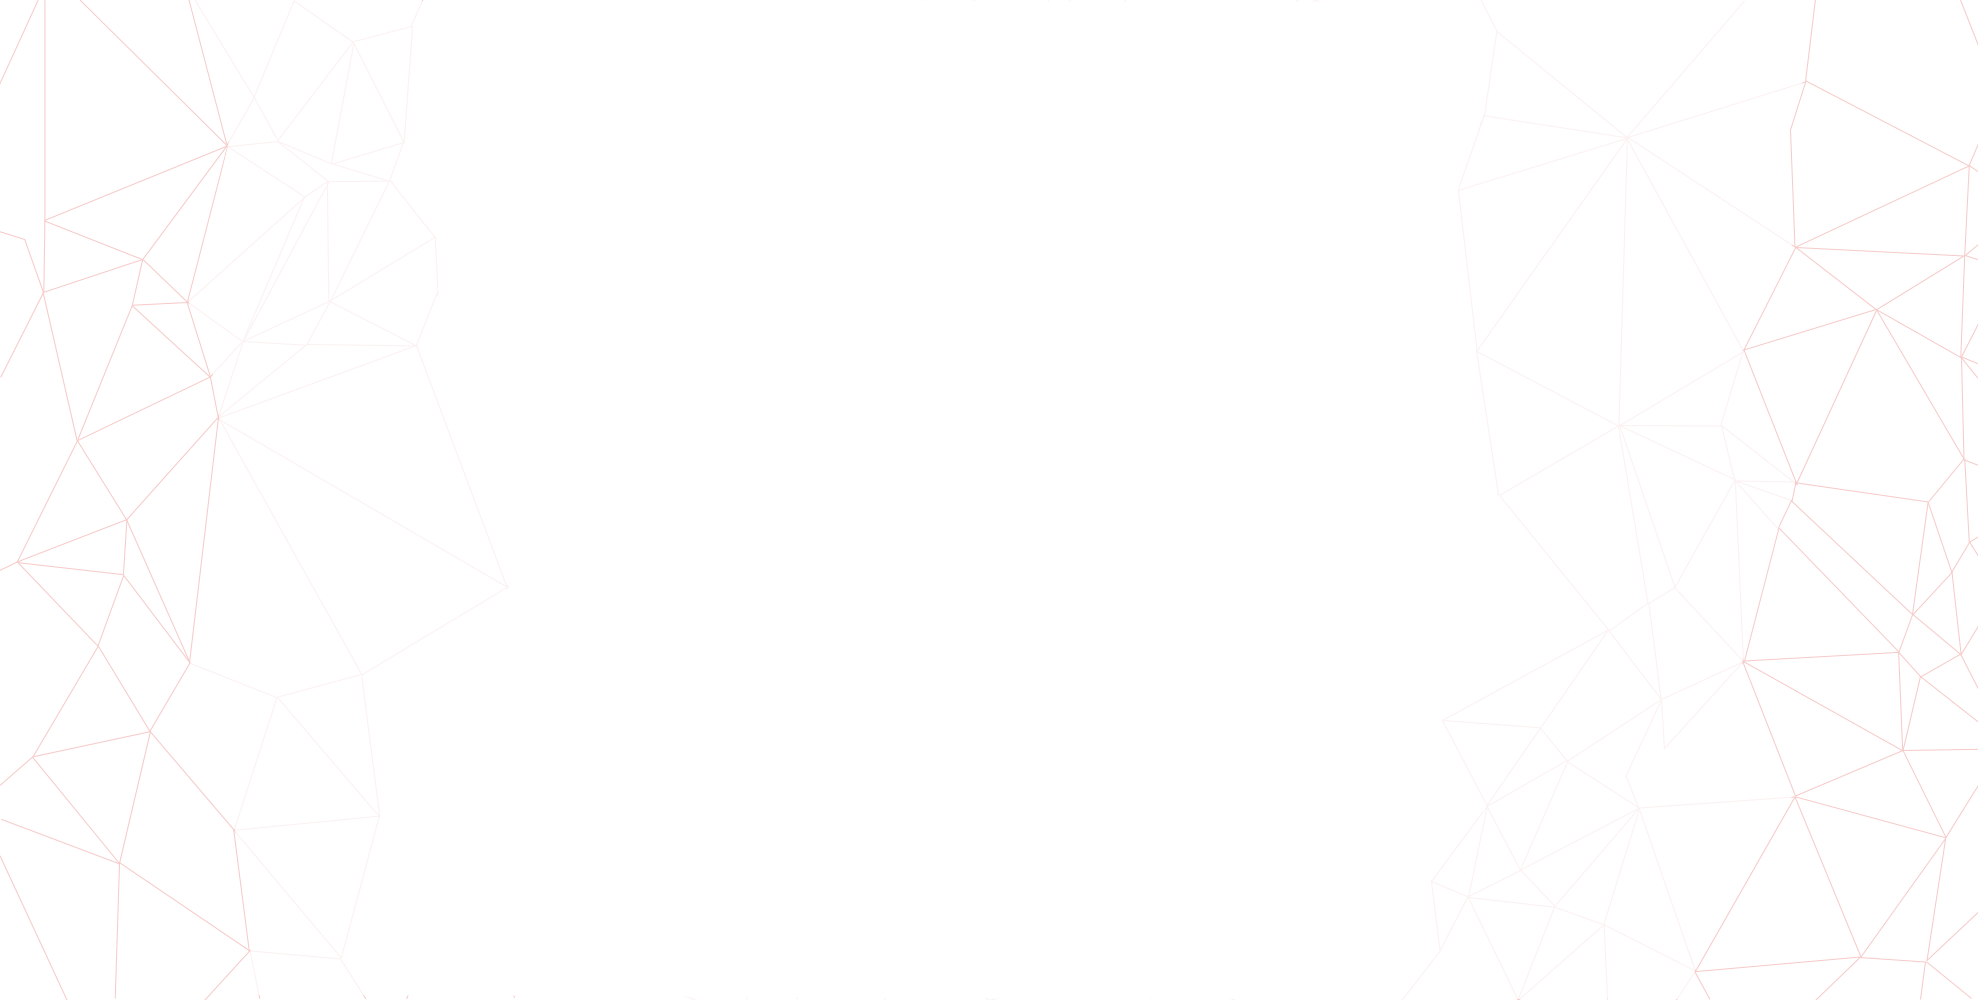
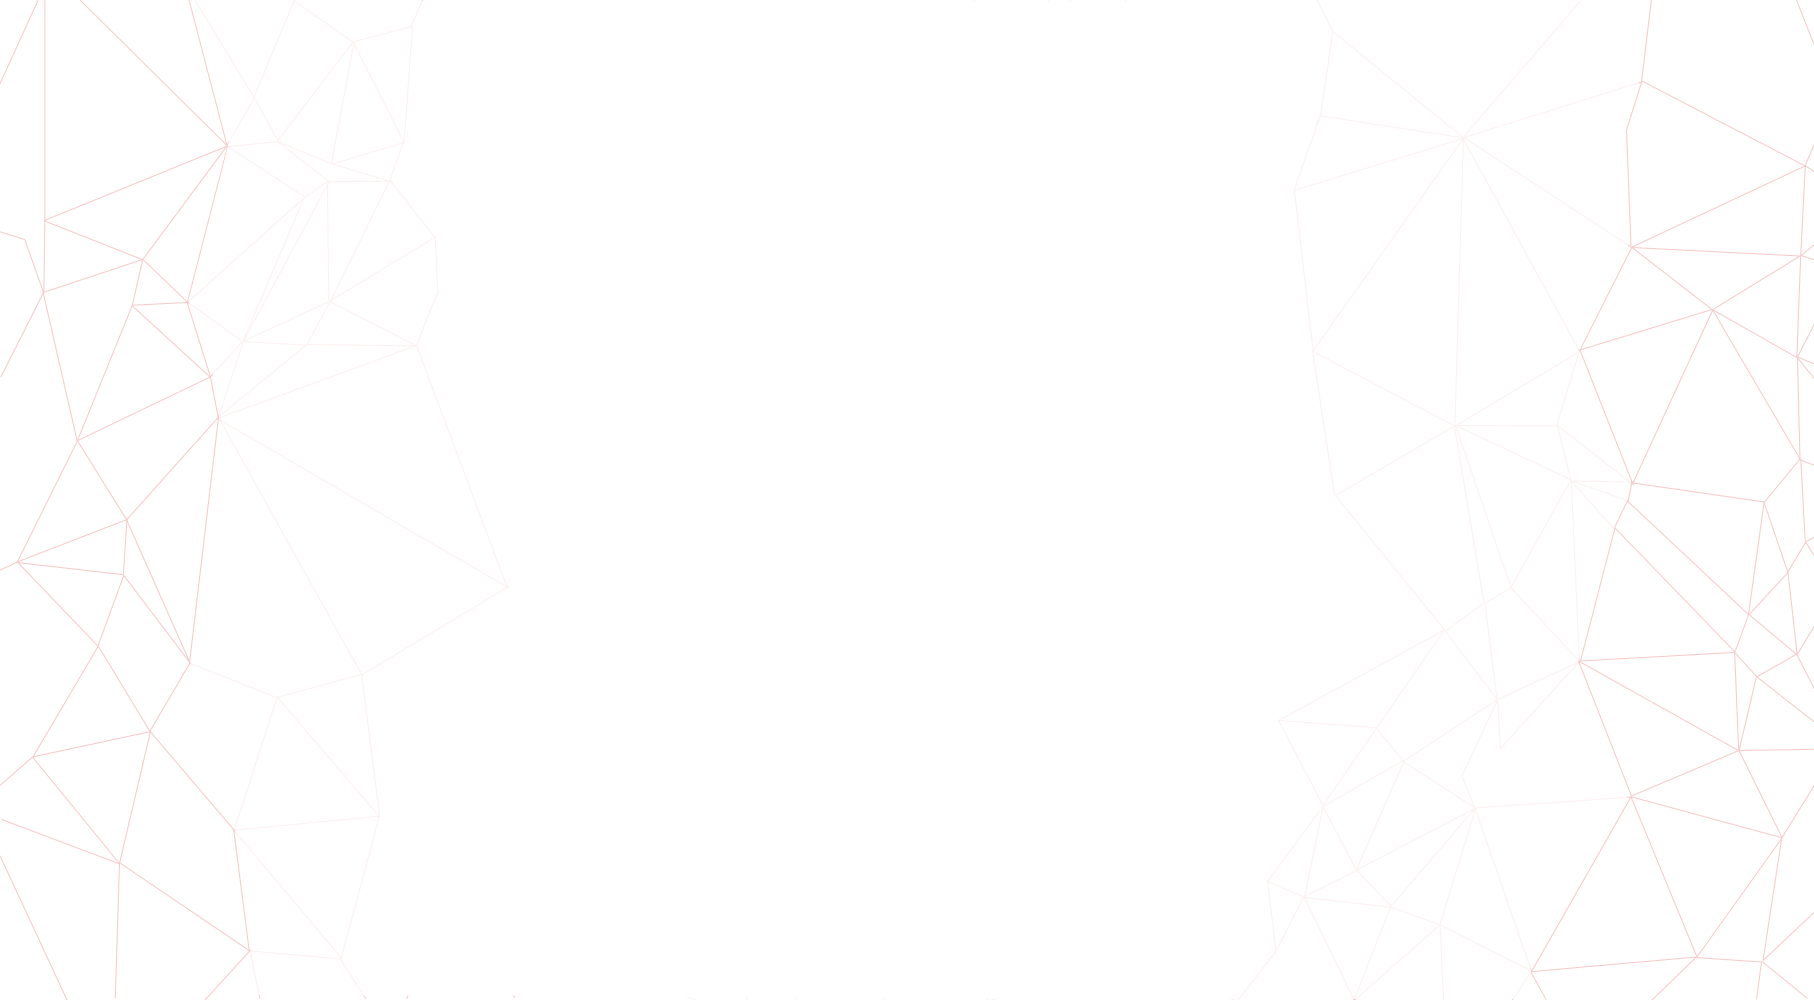
Fix the about section's background for resolution larger than 1080p

diff --git a/stylesheets/main.css b/stylesheets/main.css
@@ -586,92 +586,102 @@ p {
 
 /* line 13, ../sass/layout/_section.scss */
 #about {
+  text-align: justify;
   background-color: #ffffff;
   background-image: url("../img/polygon_background.png");
   background-position: center;
   background-repeat: repeat-y;
-  text-align: justify;
+  background-size: auto;
+}
+@media (min-width: 1550px) {
+  /* line 13, ../sass/layout/_section.scss */
+  #about {
+    background-image: url("../img/bg_left.png"), url("../img/bg_right.png");
+    background-position: left, right;
+    background-repeat: repeat-y, repeat-y;
+    background-size: auto, auto;
+  }
 }
 
-/* line 21, ../sass/layout/_section.scss */
+/* line 29, ../sass/layout/_section.scss */
 #faq {
   background-color: #f7f7f7;
 }
-/* line 24, ../sass/layout/_section.scss */
+/* line 32, ../sass/layout/_section.scss */
 #faq h2 {
   text-align: left;
 }
 
-/* line 29, ../sass/layout/_section.scss */
+/* line 37, ../sass/layout/_section.scss */
 #sponsors {
   color: #ffffff;
   background-color: #1d1e1e;
   text-align: center;
 }
-/* line 34, ../sass/layout/_section.scss */
+/* line 42, ../sass/layout/_section.scss */
 #sponsors .container {
   letter-spacing: 50px;
   line-height: 50px;
 }
-/* line 39, ../sass/layout/_section.scss */
+/* line 47, ../sass/layout/_section.scss */
 #sponsors .lg {
   display: none;
 }
 @media (min-width: 70em) {
-  /* line 39, ../sass/layout/_section.scss */
+  /* line 47, ../sass/layout/_section.scss */
   #sponsors .lg {
     display: block;
   }
 }
-/* line 47, ../sass/layout/_section.scss */
+/* line 55, ../sass/layout/_section.scss */
 #sponsors .md {
   display: none;
 }
 @media (min-width: 30em) {
-  /* line 47, ../sass/layout/_section.scss */
+  /* line 55, ../sass/layout/_section.scss */
   #sponsors .md {
     display: block;
   }
 }
 @media (min-width: 70em) {
-  /* line 47, ../sass/layout/_section.scss */
+  /* line 55, ../sass/layout/_section.scss */
   #sponsors .md {
     display: none;
   }
 }
-/* line 59, ../sass/layout/_section.scss */
+/* line 67, ../sass/layout/_section.scss */
 #sponsors .xs {
   display: block;
 }
 @media (min-width: 30em) {
-  /* line 59, ../sass/layout/_section.scss */
+  /* line 67, ../sass/layout/_section.scss */
   #sponsors .xs {
     display: none;
   }
 }
 
-/* line 68, ../sass/layout/_section.scss */
+/* line 76, ../sass/layout/_section.scss */
 #contact {
   text-align: center;
   color: #ffffff;
 }
-/* line 72, ../sass/layout/_section.scss */
+/* line 80, ../sass/layout/_section.scss */
 #contact .social {
   padding-top: 1em;
   letter-spacing: 20px;
 }
 @media (min-width: 30em) {
-  /* line 72, ../sass/layout/_section.scss */
+  /* line 80, ../sass/layout/_section.scss */
   #contact .social {
     letter-spacing: 40px;
   }
 }
-/* line 80, ../sass/layout/_section.scss */
+/* line 88, ../sass/layout/_section.scss */
 #contact .social img {
   width: 50px;
 }
 @media (min-width: 70em) {
-  /* line 80, ../sass/layout/_section.scss */
+  /* line 88, ../sass/layout/_section.scss */
   #contact .social img {
     width: 60px;
   }

diff --git a/sass/layout/_section.scss b/sass/layout/_section.scss
@@ -11,11 +11,19 @@
 }
 
 #about {
+	text-align: justify;
 	background-color: _palette(fg);
 	background-image: url('../img/polygon_background.png');
 	background-position: center;
 	background-repeat: repeat-y;
-	text-align: justify;
+	background-size: auto;
+
+	@include breakpoint(1550px) {
+		background-image: url('../img/bg_left.png'), url('../img/bg_right.png');
+		background-position: left, right;
+		background-repeat: repeat-y, repeat-y;
+		background-size: auto, auto;
+	}
 }
 
 #faq {
